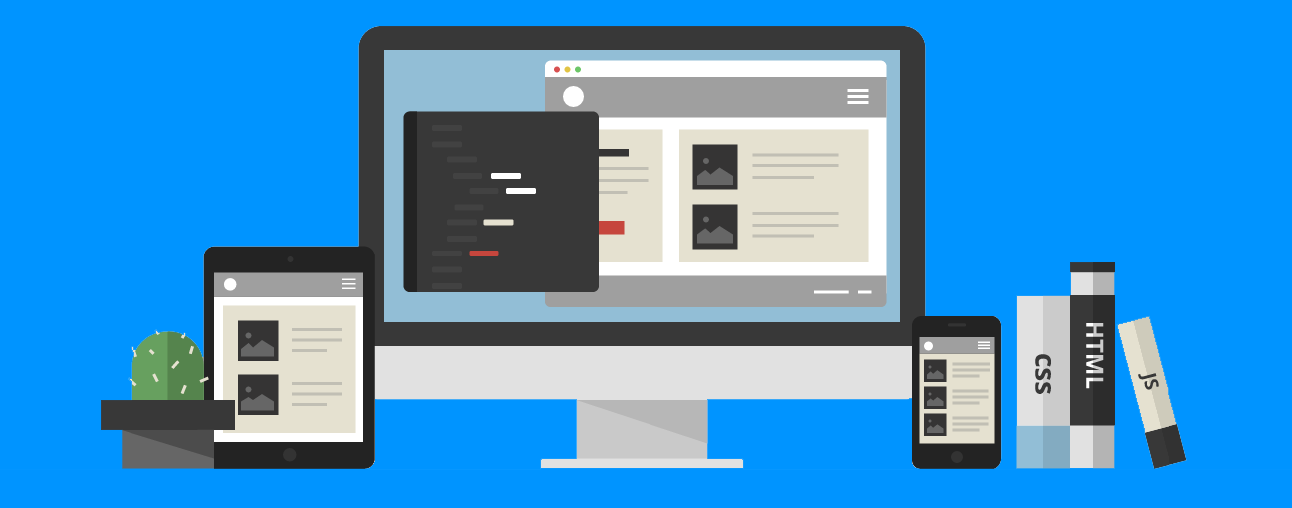
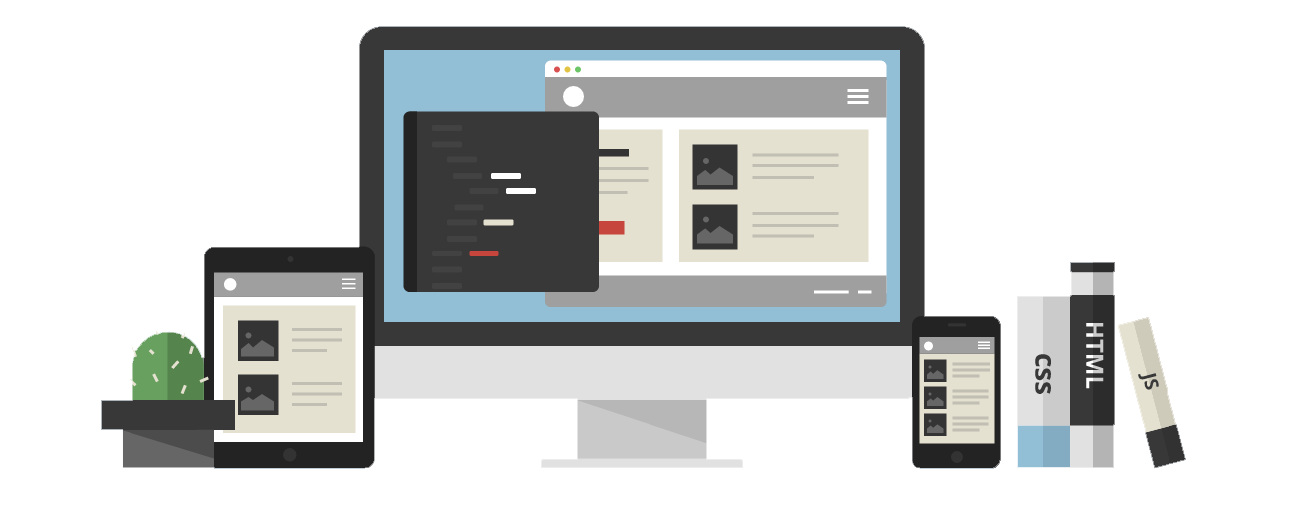
update background

diff --git a/index.html b/index.html
@@ -17,7 +17,7 @@
             background-color: #E4E4E4;
         }
         .backgroundHeader {
-           background: url(Content/images/Untitled.png) no-repeat #0094ff;
+           background: url(Content/images/Untitled.png) no-repeat #3BAFDA;
             height: 545px;
             background-position: center;
         }
@@ -63,7 +63,7 @@
         .content-contact {
             text-align: center;
             padding: 30px 20px;
-            background-color: #0094ff;
+            background-color: #3BAFDA;
             color: #fff;
         }
 
